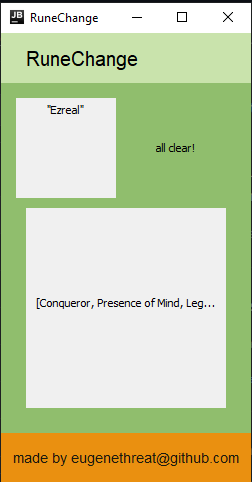
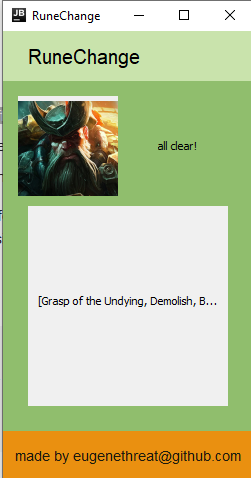
properly resized champion image

diff --git a/src/main/java/org/example/App.java b/src/main/java/org/example/App.java
@@ -5,6 +5,8 @@ import com.google.gson.JsonObject;
 import com.stirante.lolclient.ClientApi;
 import com.stirante.lolclient.ClientConnectionListener;
 
+import java.awt.*;
+import java.awt.image.BufferedImage;
 import java.io.*;
 import java.util.*;
 
@@ -15,6 +17,7 @@ import org.example.runes.RuneFamily;
 import org.example.runes.RuneSlots;
 import view.Mainframe;
 
+import javax.imageio.ImageIO;
 import javax.swing.*;
 import java.io.IOException;
 import java.util.List;
@@ -117,18 +120,33 @@ public class App {
     /*
         gets champ portrait from datadragon and sets
      */
-    private static void getChampPortrait(String champ){
+    private static void getChampPortrait(String champ) {
         String path = ".\\resources\\tiles\\";
 
-        champ = champ.substring(0,1).toUpperCase() + champ.substring(1);
+        champ = champ.substring(0, 1).toUpperCase() + champ.substring(1);
         champ = champ.replace("\"", "");
 
-        File portrait = new File(path + champ + "_0");
+        File portrait = new File(path + champ + "_0.jpg");
         System.out.println(portrait);
 
-        ImageIcon champIcon = new ImageIcon(path+champ+"_0.jpg");
+        ImageIcon champIcon = new ImageIcon(path + champ + "_0.jpg");
 
-        viewer.getContent().getChampNameLabel().setIcon(champIcon);
+        //https://stackoverflow.com/questions/16343098/resize-a-picture-to-fit-a-jlabel
+        BufferedImage img = null;
+        try {
+            img =  ImageIO.read(portrait);
+            //sets img to champ portrait
+
+        } catch (IOException e) {
+            e.printStackTrace();
+        }
+
+        JLabel here = viewer.getContent().getChampNameLabel();
+        Image dimg = img.getScaledInstance(here.getWidth(), here.getHeight(),
+                Image.SCALE_SMOOTH);
+        ImageIcon asdf = new ImageIcon(dimg);
+
+        viewer.getContent().getChampNameLabel().setIcon(asdf);
     }
 
     /*
@@ -266,7 +284,7 @@ public class App {
         } else if (arbFirst.matches("80[0-9][0-9]")) {
             newPage.primaryStyleId = 8000;
         }
-        
+
         String arbSecond = String.valueOf(opRunes.get(4));
         //first secondary rune
         if (arbSecond.matches("81[0-9][0-9]")) {

diff --git a/src/main/java/view/Content.java b/src/main/java/view/Content.java
@@ -57,17 +57,21 @@ public class Content extends JPanel {
         this.add(progress, progressCons);
     }
 
-    private void makeChampPic() {
-        JPanel champPic = new JPanel();
-        champPic.setPreferredSize(new Dimension(100, 100));
-        GridBagConstraints champCons = new GridBagConstraints();
+        private void makeChampPic() {
+            JPanel champPicPanel;
+            champPicPanel = new JPanel();
 
-        champCons.gridx = 0;
-        champCons.gridy = 0;
+            champPicPanel.setPreferredSize(new Dimension(100, 100));
+            GridBagConstraints champCons = new GridBagConstraints();
 
-        champPic.add(champNameLabel);
+            champCons.gridx = 0;
+            champCons.gridy = 0;
 
-        this.add(champPic, champCons);
+            champNameLabel.setPreferredSize((new Dimension(100, 100)));
+
+        champPicPanel.add(champNameLabel);
+
+        this.add(champPicPanel, champCons);
     }
 
 
